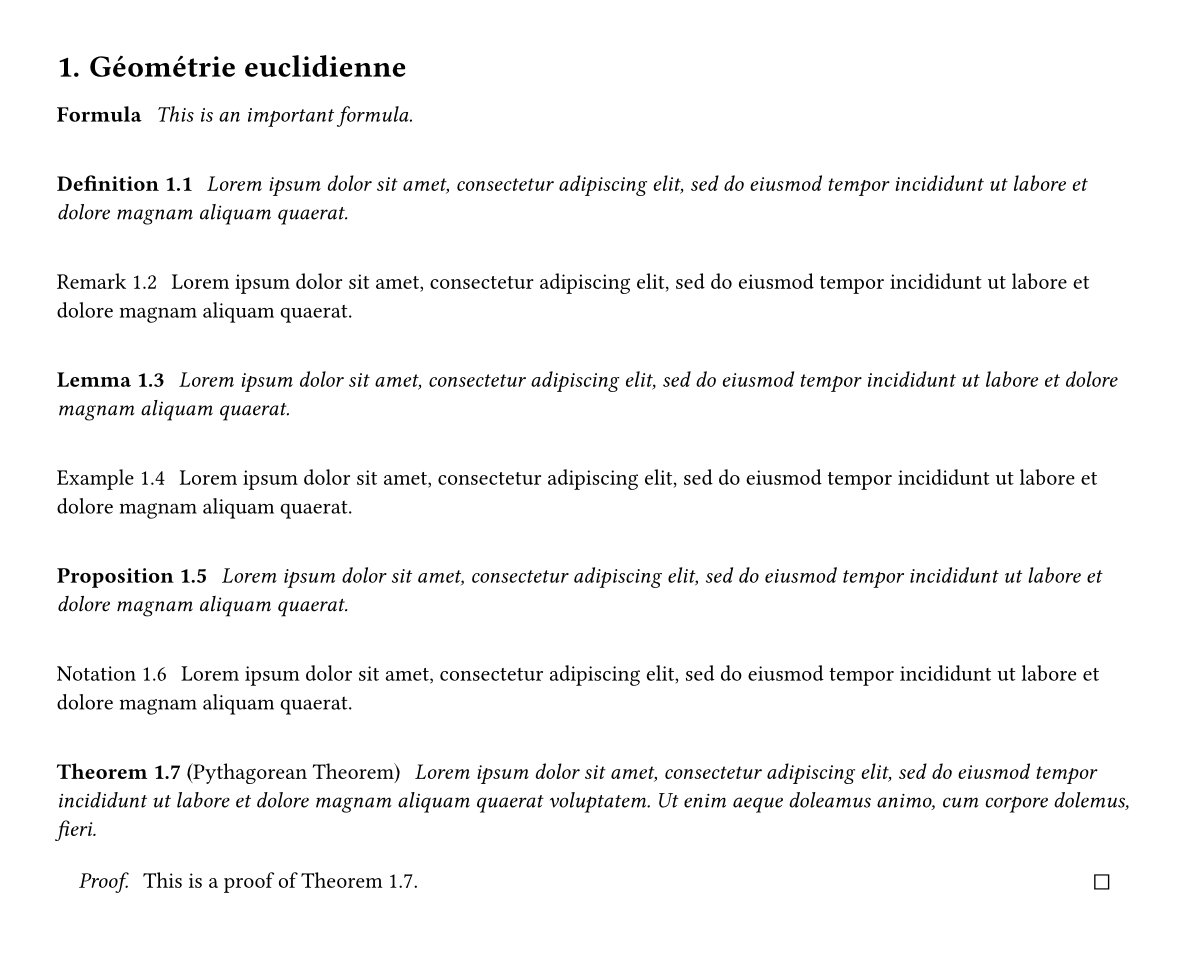
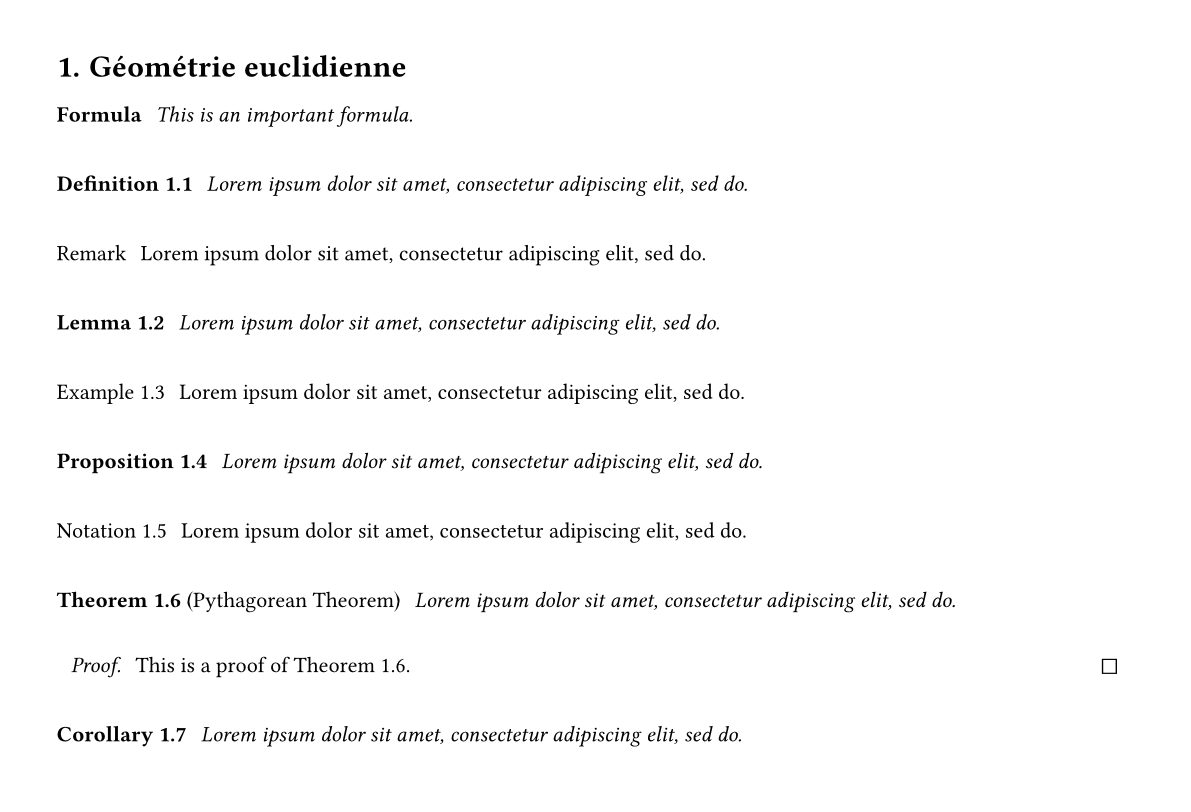
[update] examples and readme

diff --git a/README.md b/README.md
@@ -35,21 +35,23 @@ Simply download the package locally (as described on the [Typst Packages](https:
 // a generic customisable box with matching styling (use (counter, name) => [] for custom title)
 #generic-box(title: build-title("Formula"), counter: none)[This is an important formula.]
 
-#definition[ #lorem(20) ]
+#definition[ #lorem(10) ]
 
-#remark[ #lorem(20) ]
+#remark(counter: none)[ #lorem(10) ]
 
-#lemma[ #lorem(20) ]
+#lemma[ #lorem(10) ]
 
-#example[ #lorem(20) ]
+#example[ #lorem(10) ]
 
-#proposition[ #lorem(20) ]
+#proposition[ #lorem(10) ]
 
-#notation[ #lorem(20) ]
+#notation[ #lorem(10) ]
 
 // a theorem followed by its proof
-#theorem(label: <thm1>, name: [Pythagorean Theorem])[ #lorem(30) ]
+#theorem(label: <thm1>, name: [Pythagorean Theorem])[ #lorem(10) ]
 #proof[ This is a proof of @thm1. ]
+
+#corollary[ #lorem(10) ]
 
 ```
 
